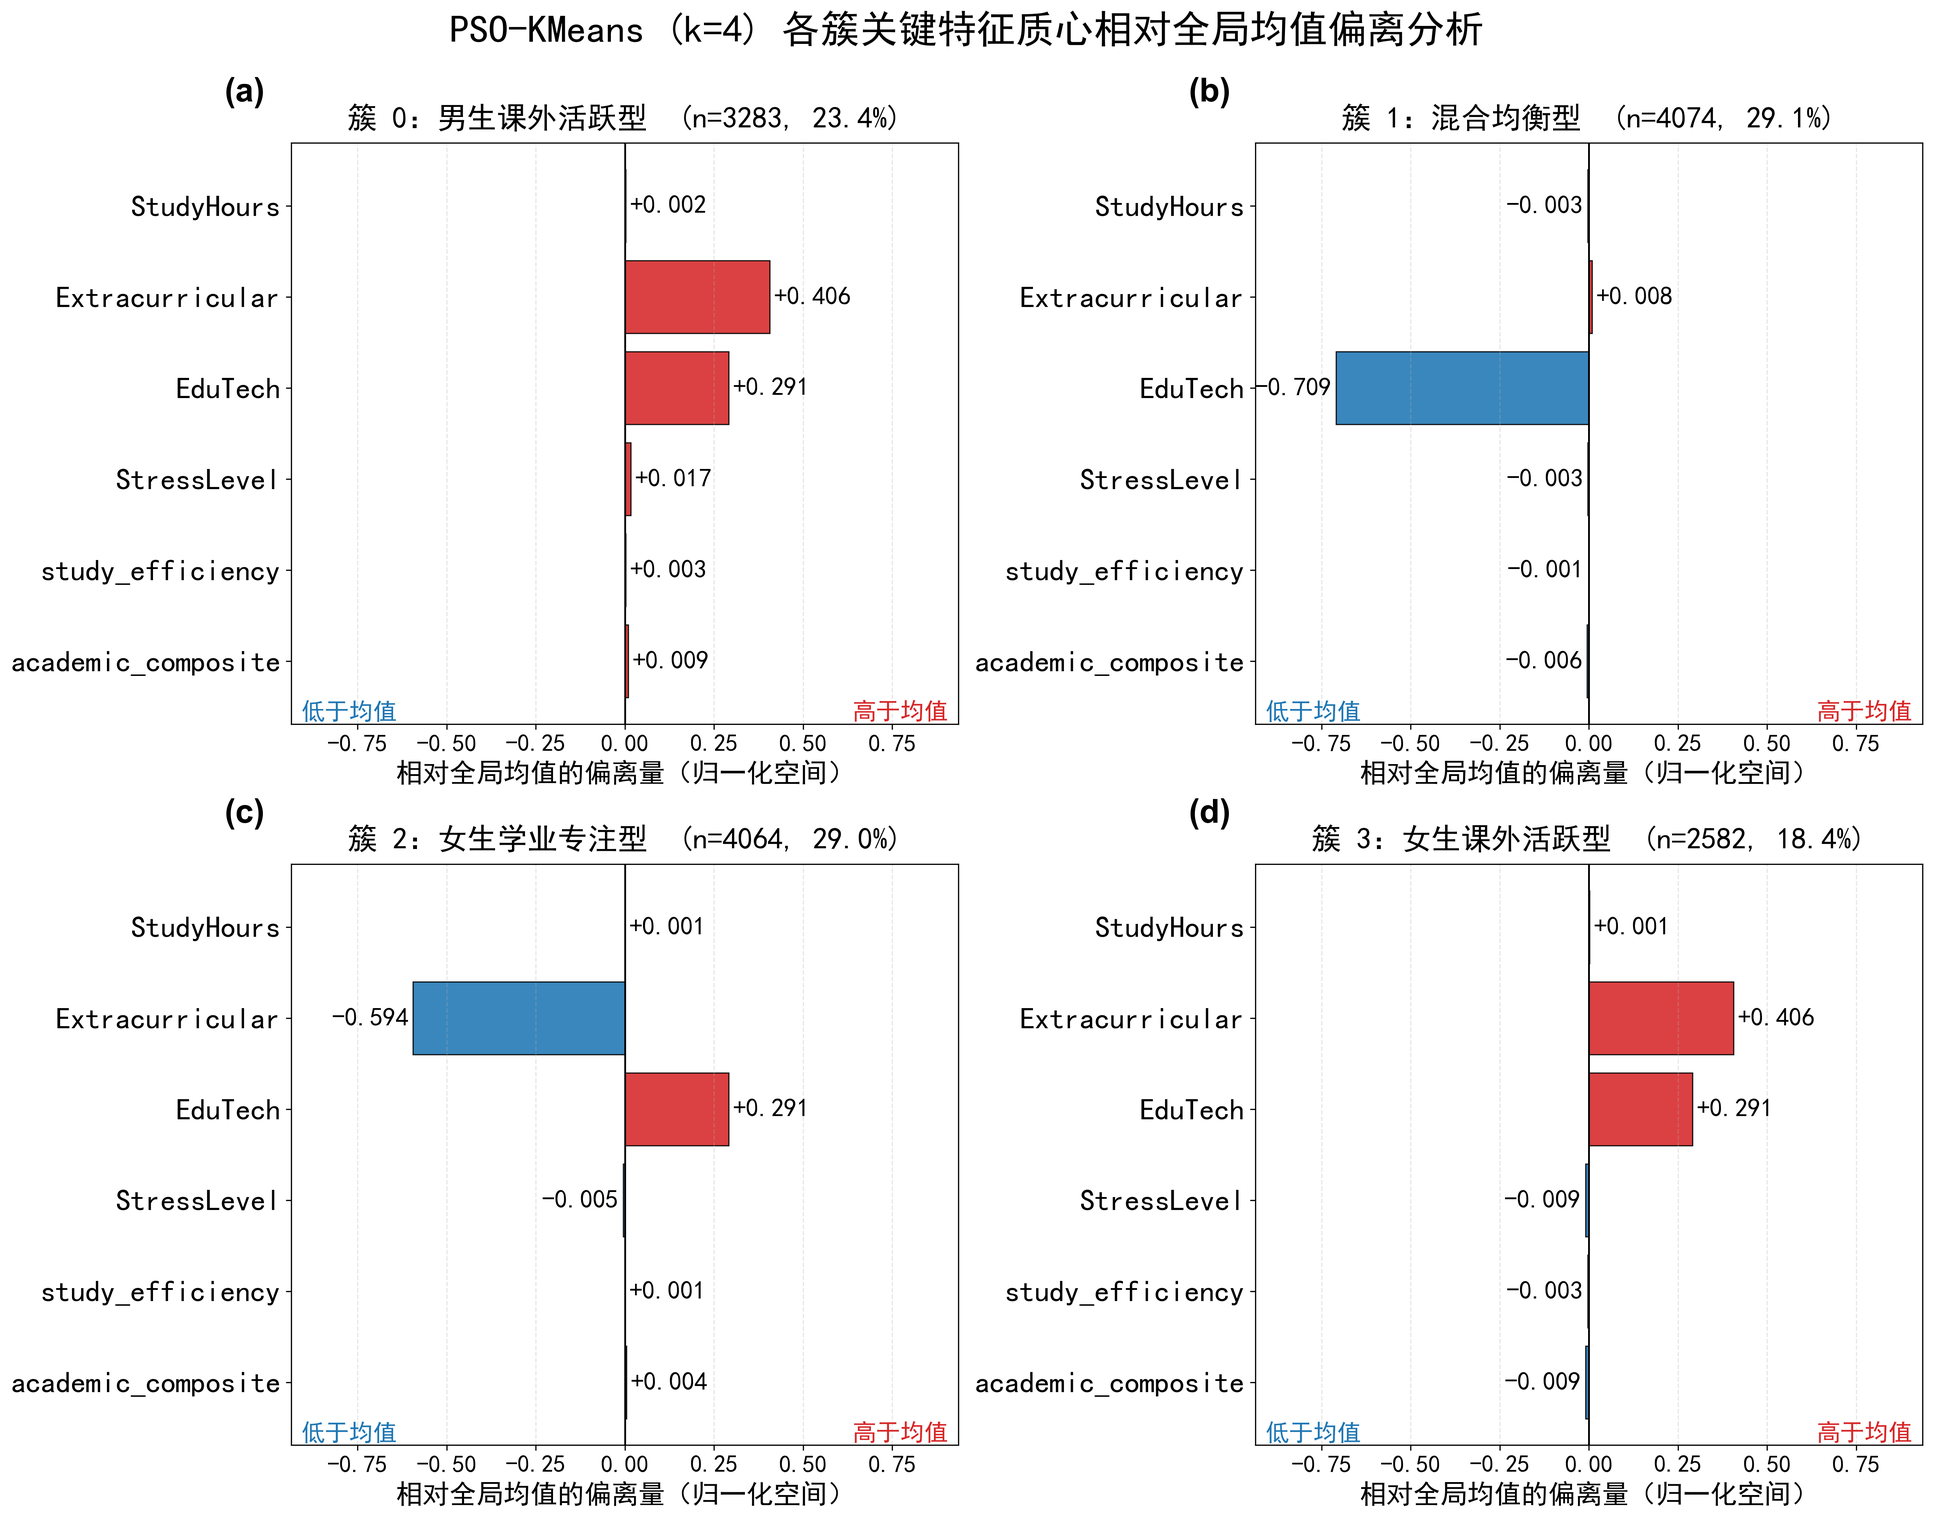
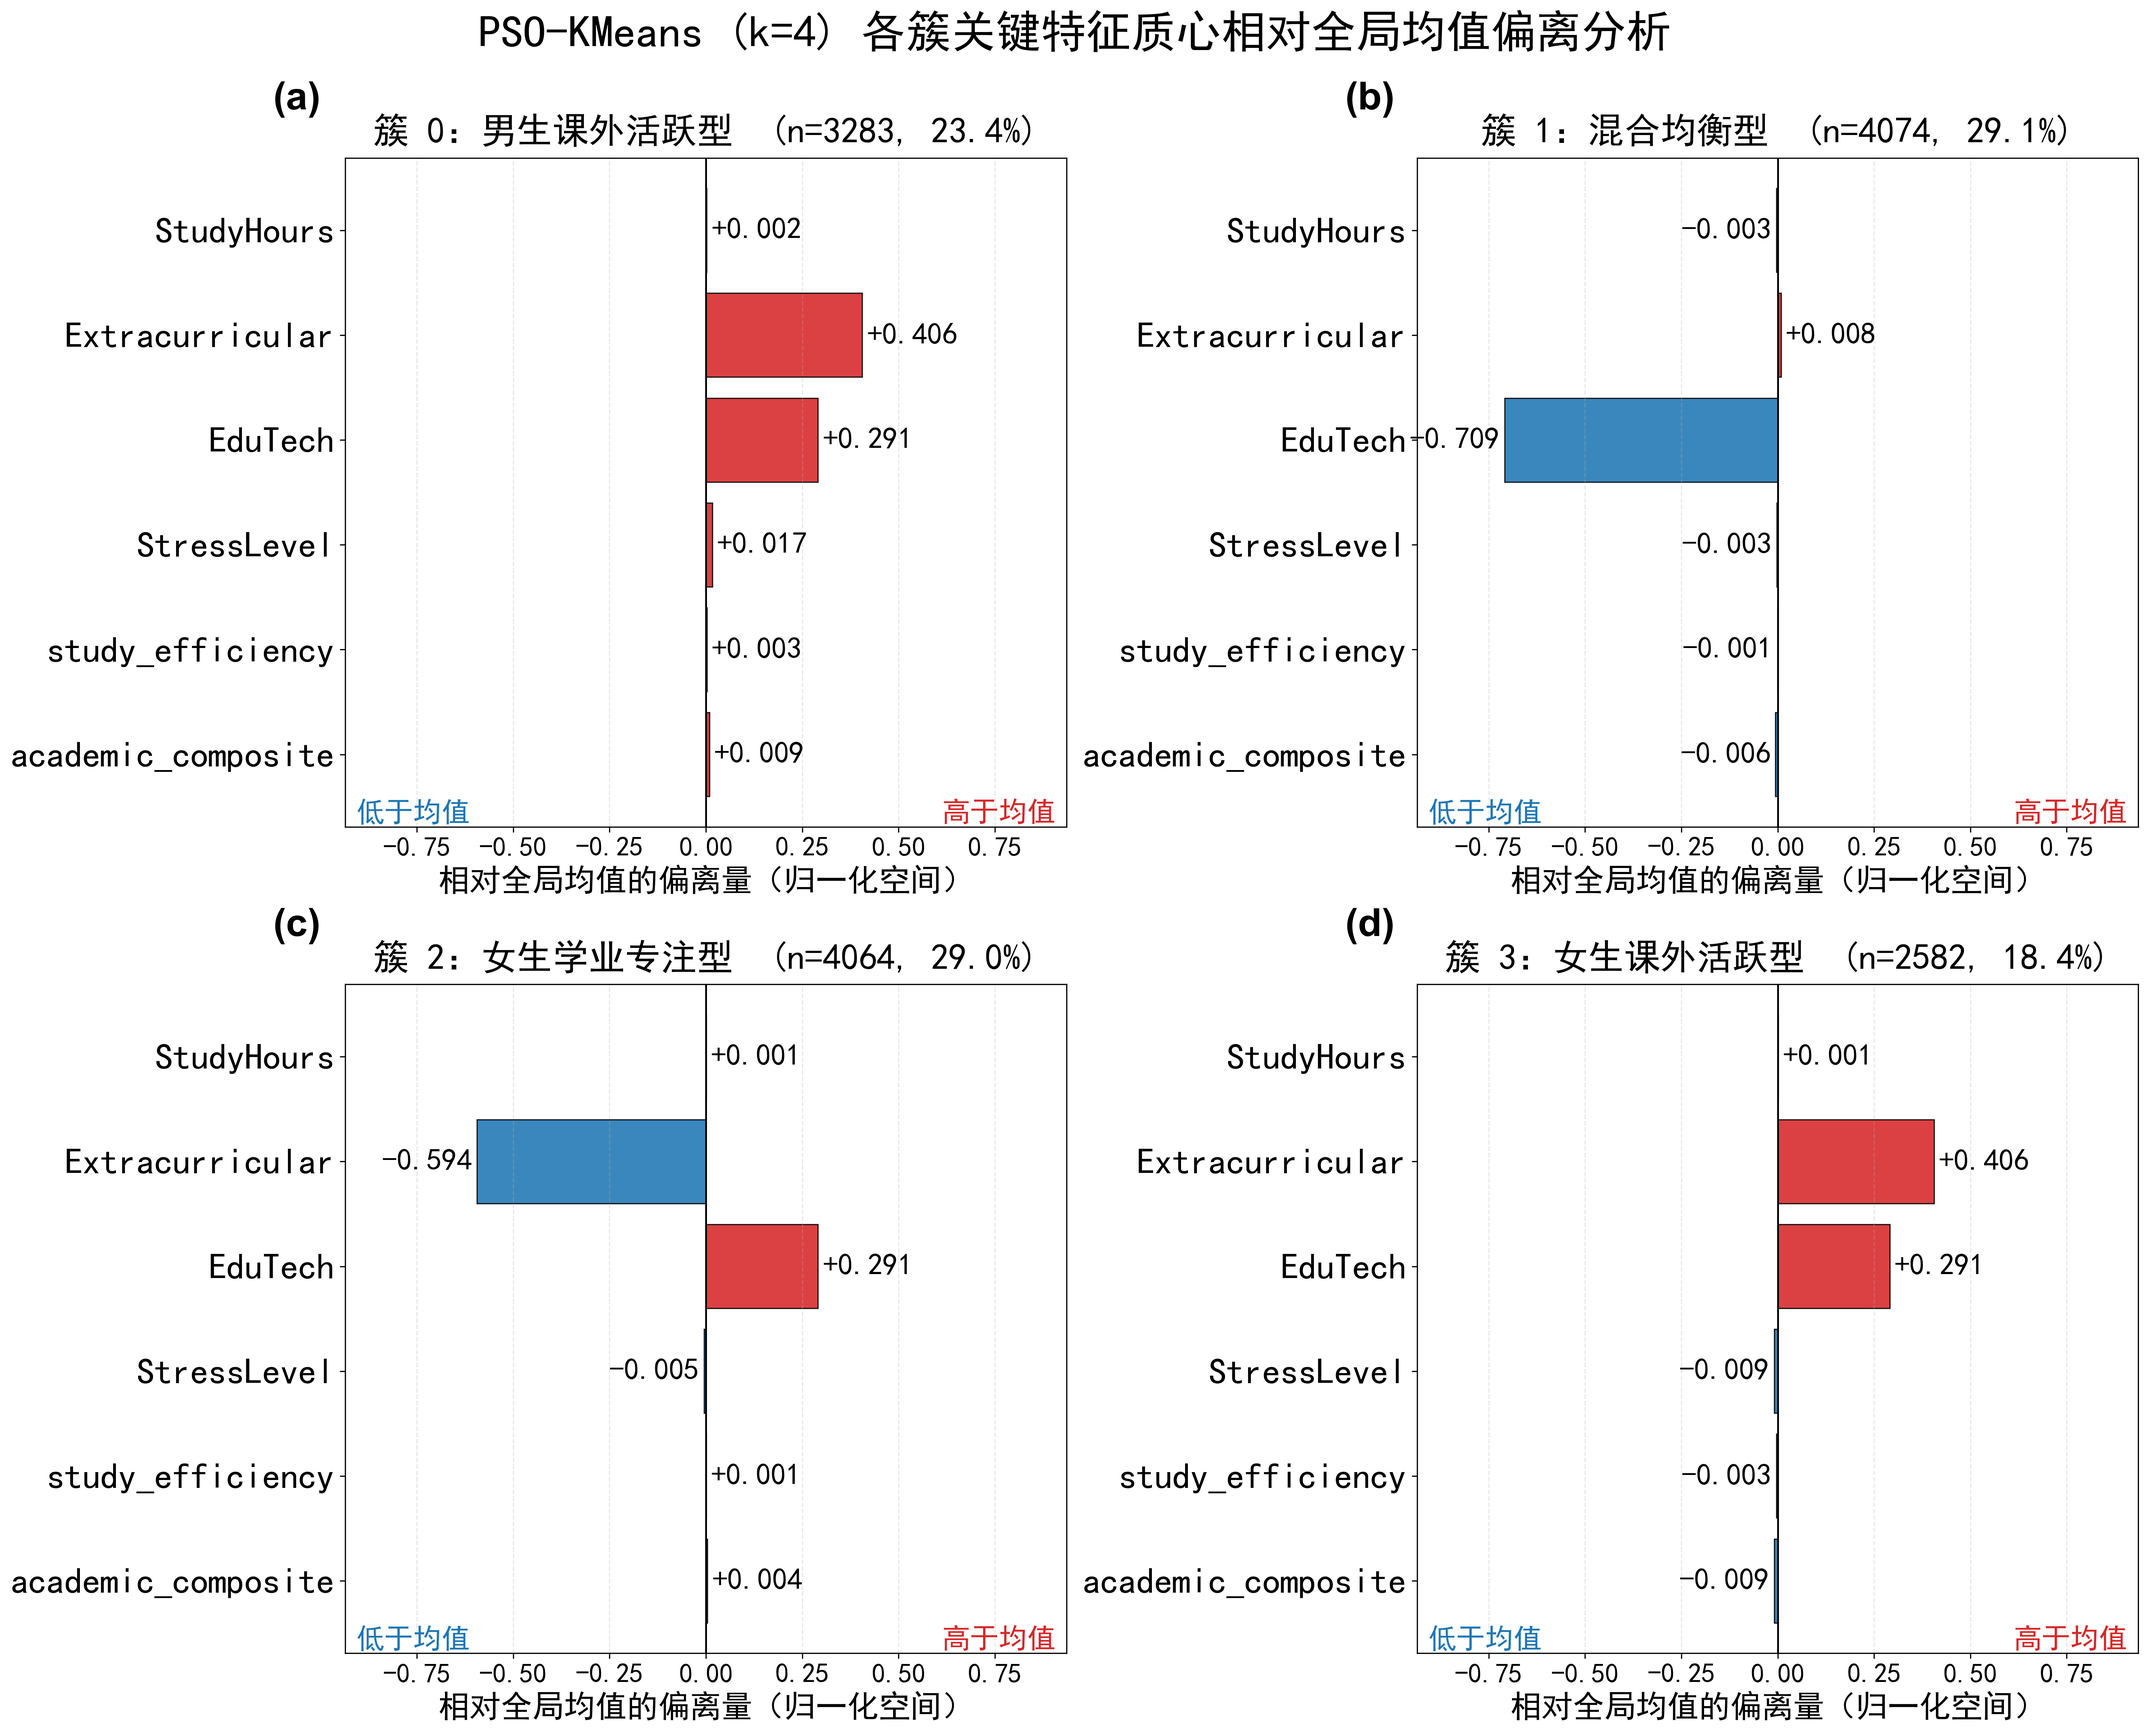
再大一点

diff --git a/scripts/relabel_charts.py b/scripts/relabel_charts.py
@@ -311,7 +311,7 @@ def fig_deviation() -> None:
     y_pos = np.arange(len(KEY_FEATURES))[::-1]
     letters = ["a", "b", "c", "d"]
 
-    fig, axes = plt.subplots(2, 2, figsize=(18, 14))
+    fig, axes = plt.subplots(2, 2, figsize=(20, 16))
     axes = axes.flatten()
 
     for i in range(n_clusters):
@@ -327,28 +327,28 @@ def fig_deviation() -> None:
             ha = "left" if val >= 0 else "right"
             ax.text(bar.get_width() + (offset if val >= 0 else -offset),
                     bar.get_y() + bar.get_height() / 2,
-                    f"{val:+.3f}", va="center", ha=ha, fontsize=17,
+                    f"{val:+.3f}", va="center", ha=ha, fontsize=20,
                     fontweight="bold")
 
         ax.set_yticks(y_pos)
-        ax.set_yticklabels(KEY_FEATURES, fontsize=20, fontweight="bold")
-        ax.tick_params(axis="x", labelsize=16)
+        ax.set_yticklabels(KEY_FEATURES, fontsize=24, fontweight="bold")
+        ax.tick_params(axis="x", labelsize=18)
         ax.set_xlim(-x_lim, x_lim)
-        ax.set_xlabel("相对全局均值的偏离量（归一化空间）", fontsize=18, fontweight="bold")
+        ax.set_xlabel("相对全局均值的偏离量（归一化空间）", fontsize=21, fontweight="bold")
         ax.set_title(
             f"{CLUSTER_NAMES[i]}  (n={cluster_sizes[i]}, "
             f"{cluster_sizes[i]/len(X_vals)*100:.1f}%)",
-            fontsize=20, pad=10, fontweight="bold",
+            fontsize=24, pad=10, fontweight="bold",
         )
         ax.grid(axis="x", alpha=0.3, linestyle="--")
-        ax.text(-x_lim * 0.97, -0.55, "低于均值", fontsize=16, color=neg_color,
+        ax.text(-x_lim * 0.97, -0.55, "低于均值", fontsize=19, color=neg_color,
                 ha="left", va="center", fontweight="bold")
-        ax.text(x_lim * 0.97, -0.55, "高于均值", fontsize=16, color=pos_color,
+        ax.text(x_lim * 0.97, -0.55, "高于均值", fontsize=19, color=pos_color,
                 ha="right", va="center", fontweight="bold")
-        add_subplot_label(ax, letters[i], fontsize=22)
+        add_subplot_label(ax, letters[i], fontsize=26)
 
     plt.suptitle("PSO-KMeans (k=4) 各簇关键特征质心相对全局均值偏离分析",
-                 fontsize=26, y=1.00, fontweight="bold")
+                 fontsize=30, y=1.00, fontweight="bold")
     plt.tight_layout()
     plt.savefig(RESULTS / "4_群体画像_均值偏离分析图.png",
                 dpi=300, bbox_inches="tight")
